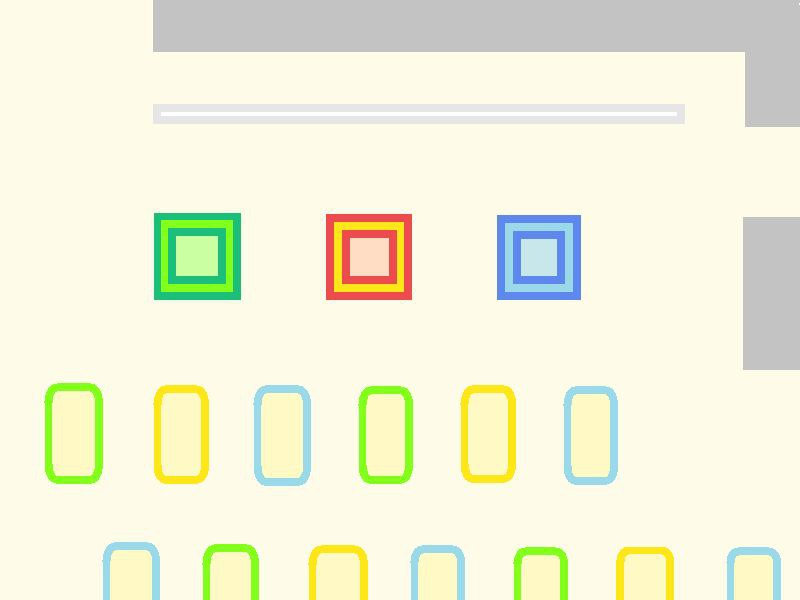
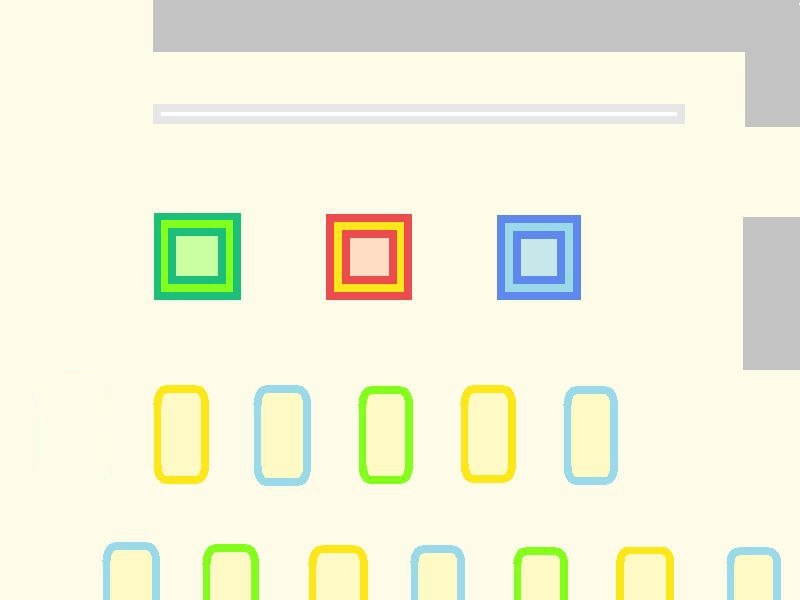
столы

Changed region(s): [[0.0312, 0.63, 0.1562, 0.81]]

diff --git a/project/KSP_thief_main.py b/project/KSP_thief_main.py
@@ -60,10 +60,12 @@ back_button = Button('К началу', window, 400, 500, d_blue, l_blue)
 barriers = [
     Barrier(155, 214, 84, 83, pygame.image.load('зеленое.png')),
     Barrier(327, 214, 85, 85, pygame.image.load('красное.png')),
-    Barrier(498, 214, 82, 83, pygame.image.load('синевое.png'))]  # колонны
-#  , Barrier(50, 393, 50, 152)
+    Barrier(498, 214, 82, 83, pygame.image.load('синевое.png')),
+    Barrier(744, 219, 56, 152)]  # колонны и серая стойка около кассы
+
+# координата по ОХ левого края стола, ширина стола, высота стола
 for x in tables_left_coords:
-    barriers.append(Barrier(x, top_y_table, table_rect_width - 0.05 * table_rect_width, table_height))
+    barriers.append(Barrier(x, top_y_table, 0.8 * table_rect_width, table_height))
 barriers.append(Barrier(second_row_x, second_row_y, second_row_long, table_small_height))
 #
 
@@ -120,12 +122,9 @@ while gameNow:
                 # Если нажат крестик, то окно игры закрывается
                 gameNow = 0
 
-            # Движение охранника
-
-
+        # Движение охранника
         keys = pygame.key.get_pressed()
         new_security = security.move(keys)
-            #
 
         pygame.display.update()
         collided = False

diff --git a/project/constants.py b/project/constants.py
@@ -24,7 +24,7 @@ grey = (129, 129, 129)
 """ наборы мест и их активность """
 
 
-top_y_table = 384
+top_y_table = 392
 
 second_row_x = 105
 second_row_y = 570
@@ -32,7 +32,7 @@ table_small_height = 30
 second_row_long = 695
 
 table_rect_width = 56 # Ширина стола
-table_height = 100 # Высота стола
+table_height = 92 # Высота стола
 
 
 #верхние и нижние места
@@ -51,10 +51,13 @@ table_gap = 35
 n_tables = 5
 
 #координаты мест
-#
+# + table_rect_width
 x_table_coord = []
 # Координаты для столов (чтобы охранник обходил эти столы)
-tables_left_coords = [left_x_table + i * table_gap for i in range(5)]
+
+# дальше этого вправо не идет:
+tables_left_coords = [159 , 263, 366,
+                      467, 566]
 #tables_left_coords = [left_x_table, left_x_table+ table_gap, 416, 518, 620]
 
 #активность верзних и нижних мест

diff --git a/project/functions.py b/project/functions.py
@@ -10,9 +10,10 @@ def draw_heart(screen, x, y):
     heart_rect.center = x, y
     screen.blit(heart, heart_rect)
 
-def draw_seats(screen):
-    for i in x_table_coord:
-        pygame.draw.circle(screen, black, (i, lower_y), 5)
+def draw_seats(screen): # Черные точки-ориентиры для столов
+    pass
+    #for i in x_table_coord:
+        #pygame.draw.circle(screen, black, (i, lower_y), 5)
 
 def draw_score(window, score, record, new_record, x, y, width, height):
     d_coord = 15

diff --git a/project/students.py b/project/students.py
@@ -8,7 +8,8 @@ class Student():
     def __init__(self, window: pygame.Surface):
         self.window = window
         self.money = 1
-        self.v = 5
+        #self.v = 5
+        self.v = 0.2
         self.r = 20
         self.x = -self.r
         self.y = 78
